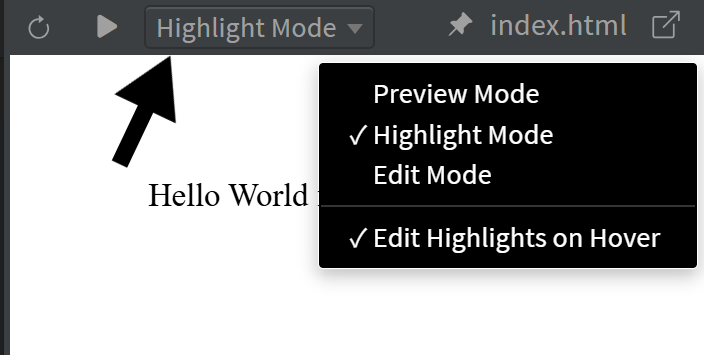
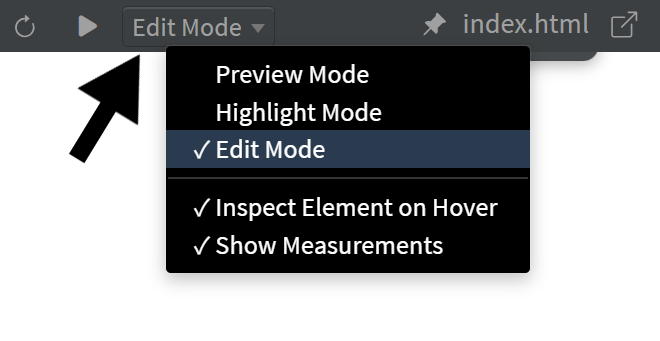
feat: update with latest images in live preview docs

diff --git a/docs/08-Features/06-Live Preview/01-live-preview.md b/docs/08-Features/06-Live Preview/01-live-preview.md
@@ -51,14 +51,12 @@ The Live Preview bolt icon appears in different colors, each indicating a differ
 
 When there's a syntax error, the bolt icon turns pink and Phoenix Code also displays an overlay in Live Preview stating that there is an error.
 
-<!-- TODO: replace this image as in this image the index.html file name is not completely visible -->
 ![Live Preview syntax error overlay](../images/livePreview/lp-syntax-error-overlay.png "Live Preview syntax error overlay")
 
 You can close this overlay by clicking the `×` icon and the overlay won't appear again.
 
 Phoenix Code also displays a connecting overlay while Live Preview is establishing a connection.
 
-<!-- TODO: replace this image as in this image the index.html file name is not completely visible -->
 ![Live Preview connecting overlay](../images/livePreview/lp-connecting-overlay.png "Live Preview connecting overlay")
 
 ---
@@ -79,7 +77,6 @@ Phoenix Code provides various options in the Live Preview toolbar.
 
 --- 
 
-<!-- TODO: replace this image as the show ruler lines option is missing -->
 ![Live Preview mode](../images/livePreview/lp-mode.png "Live Preview mode")
 
 * **Live Preview Modes** — Live Preview offers 3 modes: **Preview Mode**, **Highlight Mode**, and **Edit Mode**.
@@ -98,11 +95,14 @@ Phoenix Code provides various options in the Live Preview toolbar.
 
 --- 
 
+<!-- TODO: @devansh update this video -->
 <VideoPlayer
   src="https://docs-images.phcode.dev/videos/live-preview/preview-mode-button.mp4"
 />
 
-* **Preview Mode Button** — Located right after the Reload button, this provides a quick shortcut to switch to Preview Mode. Click it to switch to Preview Mode; click again to return to your previous mode. You can also use the keyboard shortcut `F8` to toggle Preview Mode.
+* **Preview Mode Button** — Located next to the Reload button, this provides a quick shortcut to switch modes.  
+  Clicking the button switches to **Preview Mode**. On **Phoenix Pro Edition**, a second click returns to **Edit Mode**. On **Phoenix Community Edition**, a second click switches to **Highlight Mode**.  
+  You can also use the keyboard shortcut `F8` to toggle Preview Mode.
 
 ---
 
